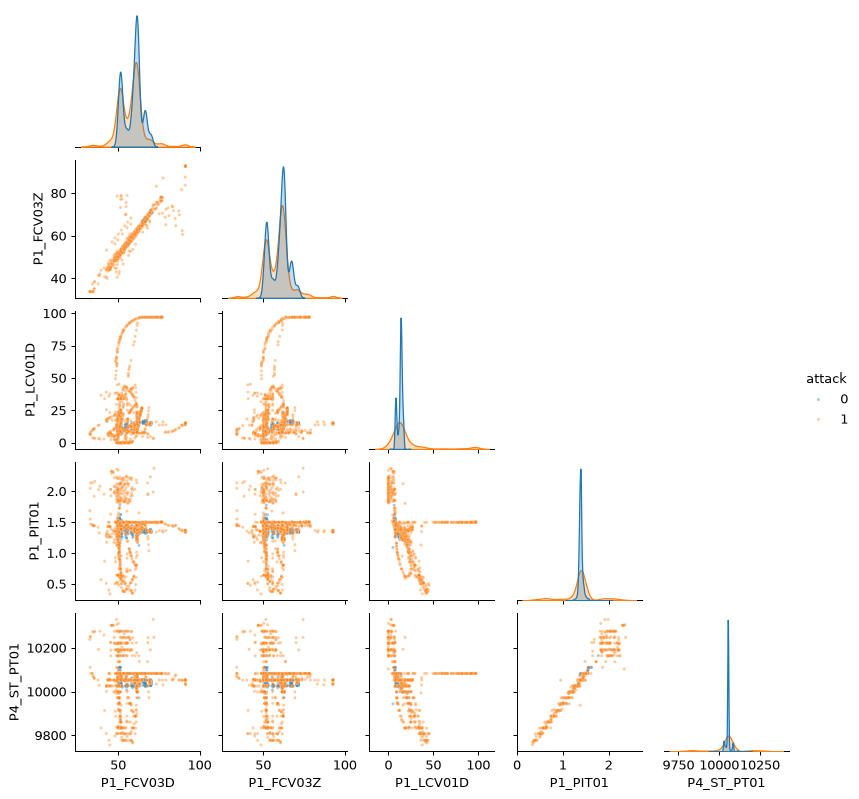
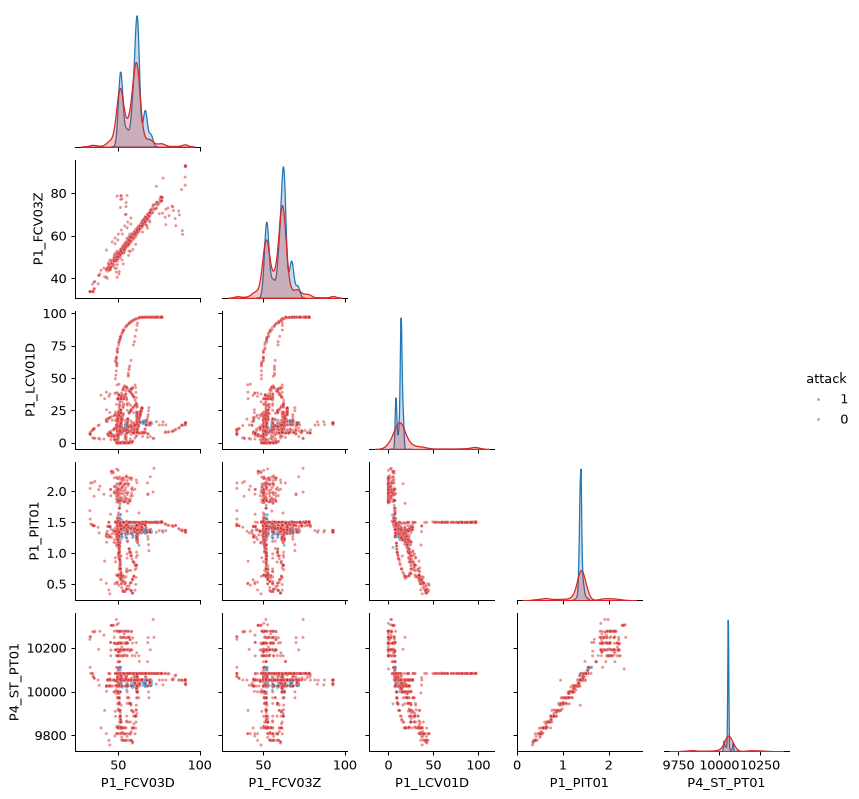
Pipeline eda: czytelniejszy pairplot, testy node'ow

diff --git a/tests/test_run.py b/tests/test_run.py
@@ -1,25 +1,9 @@
-"""
-This module contains example tests for a Kedro project.
-Tests should be placed in ``src/tests``, in modules that mirror your
-project's structure, and in files named test_*.py.
-"""
-import pytest
-from pathlib import Path
-from kedro.framework.session import KedroSession
-from kedro.framework.startup import bootstrap_project
+"""Test rejestracji pipeline'ow projektu."""
 
-# The tests below are here for the demonstration purpose
-# and should be replaced with the ones testing the project
-# functionality
+from ai_project_s28129.pipeline_registry import register_pipelines
 
-class TestKedroRun:
-    def test_kedro_run_no_pipeline(self):
-    # This example test expects a pipeline run failure, since
-    # the default project template contains no pipelines.
-        bootstrap_project(Path.cwd())
 
-        with pytest.raises(Exception) as excinfo:
-            with KedroSession.create(project_path=Path.cwd()) as session:
-                session.run()
-
-        assert "Pipeline contains no nodes" in str(excinfo.value)
+def test_eda_pipeline_is_registered():
+    pipelines = register_pipelines()
+    assert "eda" in pipelines
+    assert len(pipelines["eda"].nodes) > 0

diff --git a/tests/pipelines/test_eda.py b/tests/pipelines/test_eda.py
@@ -1,0 +1,34 @@
+"""Testy node'ow pipeline'u EDA."""
+
+import pandas as pd
+
+from ai_project_s28129.pipelines.eda import nodes
+
+
+def _sample() -> pd.DataFrame:
+    return pd.DataFrame(
+        {
+            "time": pd.date_range("2020-07-07", periods=6, freq="s"),
+            "source": ["train1", "train1", "test1", "test1", "test1", "test1"],
+            "P1_A": [1, 1, 1, 2, 2, 1],
+            "P1_B": [1.0, 2.0, 3.0, 4.0, 5.0, 6.0],
+            "attack": [0, 0, 0, 1, 1, 0],
+            "attack_P1": [0, 0, 0, 1, 0, 0],
+            "attack_P2": [0, 0, 0, 0, 0, 0],
+            "attack_P3": [0, 0, 0, 0, 0, 0],
+        }
+    )
+
+
+def test_attack_episodes_counts_rows_without_process_label():
+    result = nodes.attack_episodes(_sample())
+    assert len(result) == 1
+    assert result.loc[0, "duration_s"] == 2
+    assert result.loc[0, "rows_without_process"] == 1
+
+
+def test_column_summary_marks_column_constant_only_in_train():
+    result = nodes.column_summary(_sample()).set_index("column")
+    assert result.loc["P1_A", "constant_in_train"]
+    assert result.loc["P1_A", "varies_only_in_test"]
+    assert not result.loc["P1_B", "constant_in_train"]

diff --git a/src/ai_project_s28129/pipelines/eda/nodes.py b/src/ai_project_s28129/pipelines/eda/nodes.py
@@ -208,9 +208,11 @@ def plot_pairplot(df: pd.DataFrame, columns: list[str], sample: int, random_stat
     grid = sns.pairplot(
         pd.concat(parts)[[*columns, "attack"]],
         hue="attack",
+        hue_order=[1, 0],
+        palette={0: "tab:blue", 1: "tab:red"},
         corner=True,
         height=1.8,
-        plot_kws={"s": 6, "alpha": 0.4},
+        plot_kws={"s": 6, "alpha": 0.5},
     )
     return grid.figure
 
